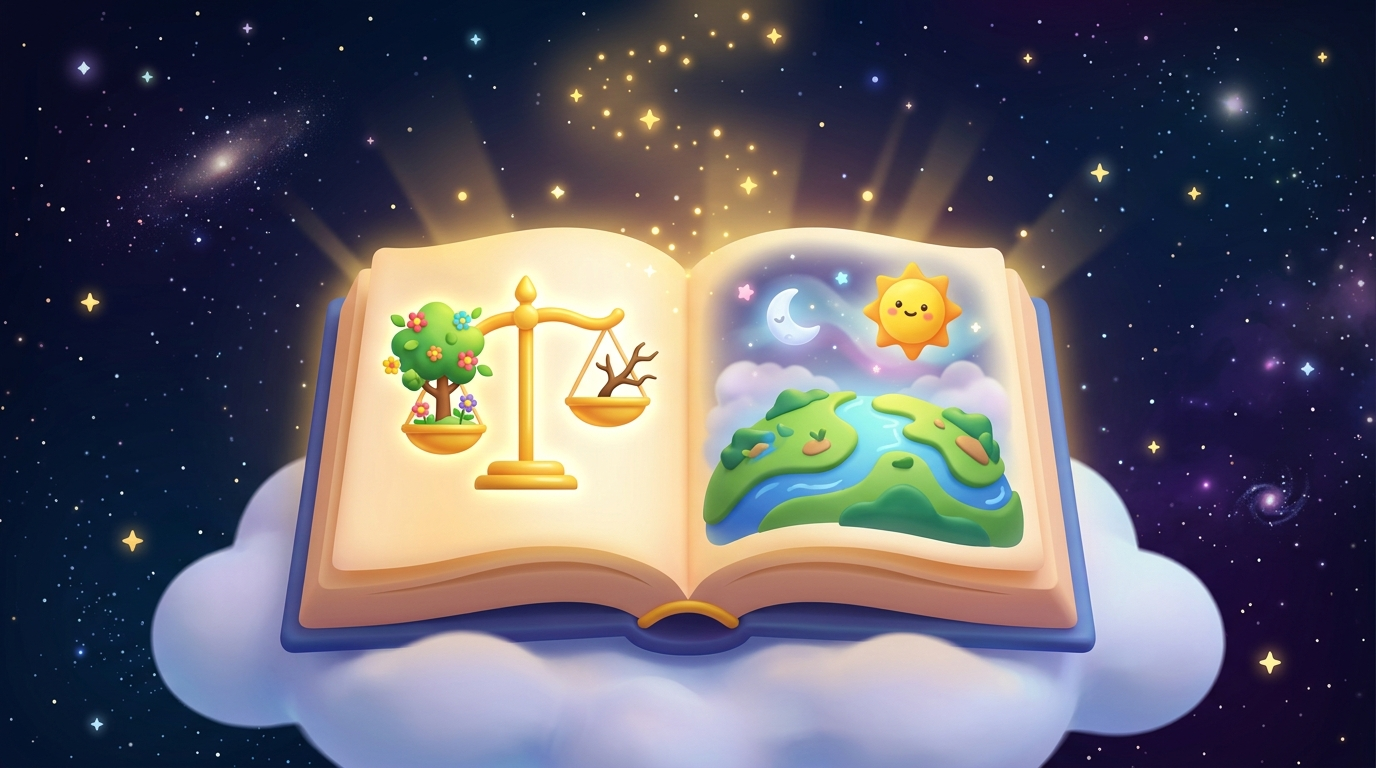
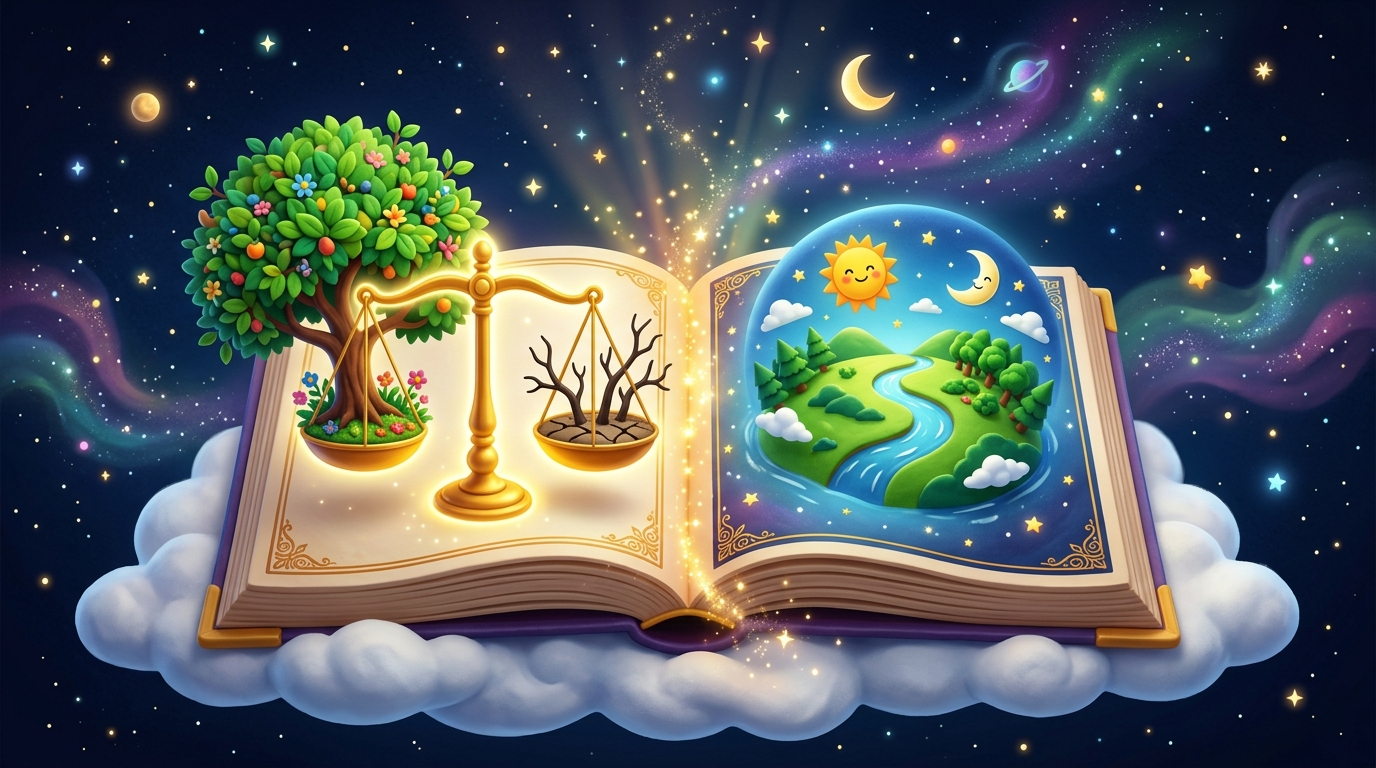
Refine page 455 visual with prominent green tree on balance and structure into 4 distinct sequential parts

diff --git a/lecture10.html b/lecture10.html
@@ -259,7 +259,7 @@
                   ✨ المشهد التخيلي الجامع بدفتي الكتاب
                 </span>
                 <p class="text-[11px] text-slate-300 hidden sm:block">
-                  الصفحة اليمنى (السماء والأرض) • الصفحة اليسرى (ميزان العمل الصالح) • نور الكتاب الصاعد (كتاب مبارك)
+                  الصفحة اليمنى (السماء والأرض والشمس) • الصفحة اليسرى (ميزان العدل: شجرة خضراء مزهرة بارزة مقابل غصن يابس) • نور الكتاب الصاعد (كتاب مبارك)
                 </p>
               </div>
               <span class="bg-white/95 text-slate-900 text-xs font-black px-3.5 py-1.5 rounded-xl shadow-lg pointer-events-auto">
@@ -268,7 +268,7 @@
             </div>
           </div>
           <p class="text-center text-xs text-slate-400 font-semibold">
-            💡 <em>صورة تخيلية رمزية صُممت خصيصاً بدون أي نصوص، ليعتمد العقل 100% على ربط المشاهد البصرية والرموز بالآيات القرآنية.</em>
+            💡 <em>صورة تخيلية رمزية صُممت خصيصاً بدون أي نصوص، تظهر فيها الشجرة الخضراء المثمرة بوضوح تام في كفّة الميزان لتمثيل الصالحات مقابل الغصن الجاف للمفسدين.</em>
           </p>
         </div>
 
@@ -414,90 +414,101 @@
           <span class="text-xs text-slate-500 font-bold block">سورة ص • صفحة 455 (الآيات 27 - 42)</span>
         </div>
 
-        <!-- تحليل الكتل القصصية الثلاث في الصفحة -->
-        <div class="lg:col-span-7 space-y-5 text-xs sm:text-sm">
+        <!-- تحليل الأجزاء الأربعة المتتالية لصفحة 455 بالكامل -->
+        <div class="lg:col-span-7 space-y-4 text-xs sm:text-sm">
           
-          <!-- القصة 1: سليمان وقصة الخيل -->
-          <div class="p-5 bg-white rounded-2xl border-2 border-amber-200 shadow-sm space-y-3">
-            <div class="flex items-center gap-2 text-amber-950 font-black">
-              <span class="w-7 h-7 rounded-lg bg-amber-600 text-white flex items-center justify-center text-xs">1</span>
-              <h4 class="text-sm sm:text-base font-playpen">قصة سيدنا سليمان مع الخيل الصافنات الجياد (4 آيات):</h4>
+          <div class="p-3 bg-purple-50 rounded-2xl border border-purple-200 text-purple-900 font-bold text-xs flex items-center justify-between">
+            <span>📋 تتكون صفحة 455 من <strong>4 أجزاء رئيسية متتالية</strong> (الترميز + 3 روابط قصصية):</span>
+            <span class="bg-purple-200 text-purple-950 px-2 py-0.5 rounded-full text-[11px]">4 أجزاء</span>
+          </div>
+
+          <!-- الجزء 1: الترميز الذهني (الآيات 27 - 29) -->
+          <div class="p-4 bg-slate-50 rounded-2xl border border-slate-200 shadow-sm space-y-2">
+            <div class="flex items-center justify-between">
+              <div class="flex items-center gap-2 text-slate-900 font-black">
+                <span class="w-6 h-6 rounded-lg bg-indigo-600 text-white flex items-center justify-center text-xs">1</span>
+                <h4 class="text-sm font-playpen">الجزء الأول: جزء الترميز الذهني (الآيات 27 - 29)</h4>
+              </div>
+              <span class="text-xs px-2.5 py-0.5 rounded-full bg-indigo-100 text-indigo-800 font-bold">3 آيات</span>
+            </div>
+            <p class="text-slate-600 text-xs leading-relaxed">
+              خلق السماوات والأرض (27) • ميزان المؤمنين والمفسدين والشجرة المزهرة (28) • الكتاب المبارك الجامع (29). <em>(مشروح بالتفصيل في اللوحة التخيلية بالأعلى).</em>
+            </p>
+          </div>
+
+          <!-- الجزء 2: قصة سليمان مع الخيل (3 آيات فقط) -->
+          <div class="p-4 bg-amber-50/70 rounded-2xl border-2 border-amber-200 shadow-sm space-y-2.5">
+            <div class="flex items-center justify-between">
+              <div class="flex items-center gap-2 text-amber-950 font-black">
+                <span class="w-6 h-6 rounded-lg bg-amber-600 text-white flex items-center justify-center text-xs">2</span>
+                <h4 class="text-sm font-playpen">الجزء الثاني: قصة سيدنا سليمان مع الخيل (3 آيات فقط):</h4>
+              </div>
+              <span class="text-xs px-2.5 py-0.5 rounded-full bg-amber-200 text-amber-900 font-bold">الآيات 31 - 33</span>
             </div>
 
-            <div class="space-y-2 pr-1 text-slate-700 font-semibold leading-relaxed">
-              <div class="p-2.5 bg-amber-50 rounded-xl border border-amber-200">
-                <strong class="text-amber-900 block text-xs">الآية الافتتاحية التمهيدية:</strong>
-                <span>﴿وَوَهَبْنَا لِدَاوُودَ سُلَيْمَانَ ۚ نِعْمَ الْعَبْدُ ۖ إِنَّهُ أَوَّابٌ﴾ (30) — كمدخل رئيسي للموضوع.</span>
-              </div>
-              <p>
-                ثم تتوالى <strong>الآيات الثلاث الخاصة بالخيل</strong>:
+            <div class="space-y-1.5 text-slate-700 font-semibold leading-relaxed text-xs">
+              <p class="text-amber-900 font-bold">
+                تقتصر قصة الخيل على <strong>ثلاث آيات متتالية</strong> حصرية:
               </p>
-              <ul class="space-y-1.5 text-slate-600 text-xs pr-2">
-                <li>• عرض الخيل وقت العشي: ﴿إِذْ عُرِضَ عَلَيْهِ بِالْعَشِيِّ الصَّافِنَاتُ الْجِيَادُ﴾ (31).</li>
-                <li>• حبه وشغفه بالخيل في سبيل الله: ﴿فَقَالَ إِنِّي أَحْبَبْتُ حُبَّ الْخَيْرِ عَن ذِكْرِ رَبِّي حَتَّىٰ تَوَارَتْ بِالْحِجَابِ﴾ (32).</li>
-                <li>• الأمر بردها وتفقدها ومسحها: ﴿رُدُّوهَا عَلَيَّ ۖ فَطَفِقَ مَسْحًا بِالسُّوقِ وَالْأَعْنَاقِ﴾ (33).</li>
+              <ul class="space-y-1 text-slate-600 pr-2">
+                <li>• <strong>1. العرض وقت العشي:</strong> ﴿إِذْ عُرِضَ عَلَيْهِ بِالْعَشِيِّ الصَّافِنَاتُ الْجِيَادُ﴾ (31).</li>
+                <li>• <strong>2. محبة الخيل في سبيل الله:</strong> ﴿فَقَالَ إِنِّي أَحْبَبْتُ حُبَّ الْخَيْرِ عَن ذِكْرِ رَبِّي حَتَّىٰ تَوَارَتْ بِالْحِجَابِ﴾ (32).</li>
+                <li>• <strong>3. رد الخيل ومسحها:</strong> ﴿رُدُّوهَا عَلَيَّ ۖ فَطَفِقَ مَسْحًا بِالسُّوقِ وَالْأَعْنَاقِ﴾ (33).</li>
               </ul>
             </div>
           </div>
 
-          <!-- القصة 2: مشهد الفتنة والعطايا الثلاث الموهوبة -->
-          <div class="p-5 bg-white rounded-2xl border-2 border-indigo-200 shadow-sm space-y-3">
-            <div class="flex items-center gap-2 text-indigo-950 font-black">
-              <span class="w-7 h-7 rounded-lg bg-indigo-600 text-white flex items-center justify-center text-xs">2</span>
-              <h4 class="text-sm sm:text-base font-playpen">مشهد الفتنة ودعاء الهبة والعطايا الثلاث المسخرة (مشهد مستقل):</h4>
+          <!-- الجزء 3: مشهد الفتنة والعطايا الثلاث -->
+          <div class="p-4 bg-indigo-50/70 rounded-2xl border-2 border-indigo-200 shadow-sm space-y-2.5">
+            <div class="flex items-center justify-between">
+              <div class="flex items-center gap-2 text-indigo-950 font-black">
+                <span class="w-6 h-6 rounded-lg bg-indigo-600 text-white flex items-center justify-center text-xs">3</span>
+                <h4 class="text-sm font-playpen">الجزء الثالث: قصة سليمان - مشهد الفتنة والعطايا المسخرة:</h4>
+              </div>
+              <span class="text-xs px-2.5 py-0.5 rounded-full bg-indigo-200 text-indigo-900 font-bold">الآيات 34 - 40</span>
             </div>
 
-            <div class="space-y-2 text-slate-700 font-semibold leading-relaxed">
-              <p class="text-xs">
-                ﴿وَلَقَدْ فَتَنَّا سُلَيْمَانَ وَأَلْقَيْنَا عَلَىٰ كُرْسِيِّهِ جَسَدًا ثُمَّ أَنَابَ﴾ (34) ➜ أعقبها دعاء سليمان الخاشع: ﴿قَالَ رَبِّ اغْفِرْ لِي <strong>وَهَبْ لِي</strong> مُلْكًا لَّا يَنبَغِي لِأَحَدٍ مِّن بَعْدِي...﴾ (35).
+            <div class="space-y-2 text-slate-700 font-semibold leading-relaxed text-xs">
+              <p>
+                مشهد مستقل يبدأ بفتنة الجسد وإنابة سليمان: ﴿وَلَقَدْ فَتَنَّا سُلَيْمَانَ وَأَلْقَيْنَا عَلَىٰ كُرْسِيِّهِ جَسَدًا ثُمَّ أَنَابَ﴾ (34) ➜ دعاء الملك الذي لا ينبغي لأحد (35).
               </p>
 
-              <div class="p-3 bg-indigo-50 rounded-xl border border-indigo-200 space-y-1.5">
-                <span class="font-black text-indigo-950 block text-xs">
-                  🎁 استجابة الله بـ 3 عطايا ونعم مسخرة متتابعة:
+              <div class="p-2.5 bg-white rounded-xl border border-indigo-100 space-y-1">
+                <span class="font-black text-indigo-950 block text-[11px]">
+                  🎁 استجابة الله بالعطايا الثلاث المسخرة متتالية:
                 </span>
-                <div class="grid grid-cols-1 sm:grid-cols-3 gap-2 text-center text-xs font-bold">
-                  <span class="p-2 bg-white rounded-lg border border-indigo-100">
-                    🌪 1. الريح <br>
-                    <span class="text-[10px] text-slate-500 font-normal">﴿فَسَخَّرْنَا لَهُ الرِّيحَ...﴾ (36)</span>
-                  </span>
-                  <span class="p-2 bg-white rounded-lg border border-indigo-100">
-                    👷 2. الشياطين <br>
-                    <span class="text-[10px] text-slate-500 font-normal">﴿وَالشَّيَاطِينَ كُلَّ بَنَّاءٍ وَغَوَّاصٍ﴾ (37)</span>
-                  </span>
-                  <span class="p-2 bg-white rounded-lg border border-indigo-100">
-                    ⛓ 3. المقيدين بالأصفاد <br>
-                    <span class="text-[10px] text-slate-500 font-normal">﴿وَآخَرِينَ مُقَرَّنِينَ فِي الْأَصْفَادِ﴾ (38)</span>
-                  </span>
+                <div class="grid grid-cols-3 gap-1.5 text-center text-[10px] font-bold">
+                  <span class="p-1 bg-indigo-50/60 rounded">🌪 1. الريح (36)</span>
+                  <span class="p-1 bg-indigo-50/60 rounded">👷 2. الشياطين (37)</span>
+                  <span class="p-1 bg-indigo-50/60 rounded">⛓ 3. المصفدون (38)</span>
                 </div>
               </div>
 
-              <p class="text-xs text-indigo-900 font-bold pt-1">
-                ثم التعقيب الإلهي: ﴿هَٰذَا عَطَاؤُنَا فَامْنُنْ أَوْ أَمْسِكْ بِغَيْرِ حِسَابٍ﴾ (39) ➜ ﴿وَإِنَّ لَهُ عِندَنَا لَزُلْفَىٰ وَحُسْنَ مَآبٍ﴾ (40).
+              <p class="text-[11px] text-indigo-900 font-bold">
+                ختام المشهد: ﴿هَٰذَا عَطَاؤُنَا فَامْنُنْ أَوْ أَمْسِكْ بِغَيْرِ حِسَابٍ﴾ (39) ➜ ﴿وَإِنَّ لَهُ عِندَنَا لَزُلْفَىٰ وَحُسْنَ مَآبٍ﴾ (40).
               </p>
             </div>
           </div>
 
-          <!-- القصة 3: سيدنا أيوب ونموذج الصبر والشفاء -->
-          <div class="p-5 bg-white rounded-2xl border-2 border-emerald-200 shadow-sm space-y-3">
-            <div class="flex items-center gap-2 text-emerald-950 font-black">
-              <span class="w-7 h-7 rounded-lg bg-emerald-600 text-white flex items-center justify-center text-xs">3</span>
-              <h4 class="text-sm sm:text-base font-playpen">قصة سيدنا أيوب عليه السلام: الصبر والشفاء (آخر آيتين بالصفحة):</h4>
+          <!-- الجزء 4: الرابط القصصي الخاص بسيدنا داود وسيدنا أيوب -->
+          <div class="p-4 bg-emerald-50/70 rounded-2xl border-2 border-emerald-200 shadow-sm space-y-2.5">
+            <div class="flex items-center justify-between">
+              <div class="flex items-center gap-2 text-emerald-950 font-black">
+                <span class="w-6 h-6 rounded-lg bg-emerald-600 text-white flex items-center justify-center text-xs">4</span>
+                <h4 class="text-sm font-playpen">الجزء الرابع: الرابط القصصي - سيدنا داود وسيدنا أيوب:</h4>
+              </div>
+              <span class="text-xs px-2.5 py-0.5 rounded-full bg-emerald-200 text-emerald-900 font-bold">الآيات 30 و 41 - 42</span>
             </div>
 
-            <div class="space-y-2 text-slate-700 font-semibold leading-relaxed">
-              <div class="p-3 bg-emerald-50/70 rounded-xl border border-emerald-200 space-y-1">
-                <strong class="text-emerald-950 block text-xs">الشدة والابتلاء وأدب الخطاب:</strong>
-                <p class="text-xs text-slate-600">
-                  سيدنا أيوب توالت عليه الابتلاءات العظيمة في جسده وماله، فتوجه إلى ربه بأدب رفيع ناسباً الضر والوسواس للشيطان: ﴿وَاذْكُرْ عَبْدَنَا أَيُّوبَ إِذْ نَادَىٰ رَبَّهُ أَنِّي مَسَّنِيَ الشَّيْطَانُ بِنُصْبٍ وَعَذَابٍ﴾ (41).
-                </p>
+            <div class="space-y-2 text-slate-700 font-semibold leading-relaxed text-xs">
+              <div class="p-2 bg-white rounded-xl border border-emerald-100">
+                <strong class="text-emerald-900 block text-[11px]">👑 صلة سيدنا داود (الآية 30):</strong>
+                <span>﴿وَوَهَبْنَا لِدَاوُودَ سُلَيْمَانَ ۚ نِعْمَ الْعَبْدُ ۖ إِنَّهُ أَوَّابٌ﴾ — رابط وراثي وروحي مباشر يربط الصفحة بالصفحة السابقة (454) التي فصّلت قصة محراب داود وتوبته.</span>
               </div>
 
-              <div class="p-3 bg-emerald-50/70 rounded-xl border border-emerald-200 space-y-1">
-                <strong class="text-emerald-950 block text-xs">أمر النزول ومعجزة الشفاء التام:</strong>
-                <p class="text-xs text-slate-600">
-                  جاءه الفرج الإلهي بأمر يسير بأن ينزل ويضرب الأرض برجليه: ﴿ارْكُضْ بِرِجْلِكَ ۖ هَٰذَا مُغْتَسَلٌ بَارِدٌ وَشَرَابٌ﴾ (42) فنبع الماء البارد العذب، واغتسل وشرب فزال كل مرض وألم فوراً!
-                </p>
+              <div class="p-2 bg-white rounded-xl border border-emerald-100">
+                <strong class="text-emerald-900 block text-[11px]">💧 قصة سيدنا أيوب ونموذج الصبر والشفاء (الآيات 41 - 42):</strong>
+                <span>﴿وَاذْكُرْ عَبْدَنَا أَيُّوبَ إِذْ نَادَىٰ رَبَّهُ أَنِّي مَسَّنِيَ الشَّيْطَانُ بِنُصْبٍ وَعَذَابٍ * ارْكُضْ بِرِجْلِكَ ۖ هَٰذَا مُغْتَسَلٌ بَارِدٌ وَشَرَابٌ﴾ — أمر النزول ومعجزة الشفاء التام بنبع الماء البارد العذب، ليجتمع في الصفحة صفوة العباد الأوّابين!</span>
               </div>
             </div>
           </div>
